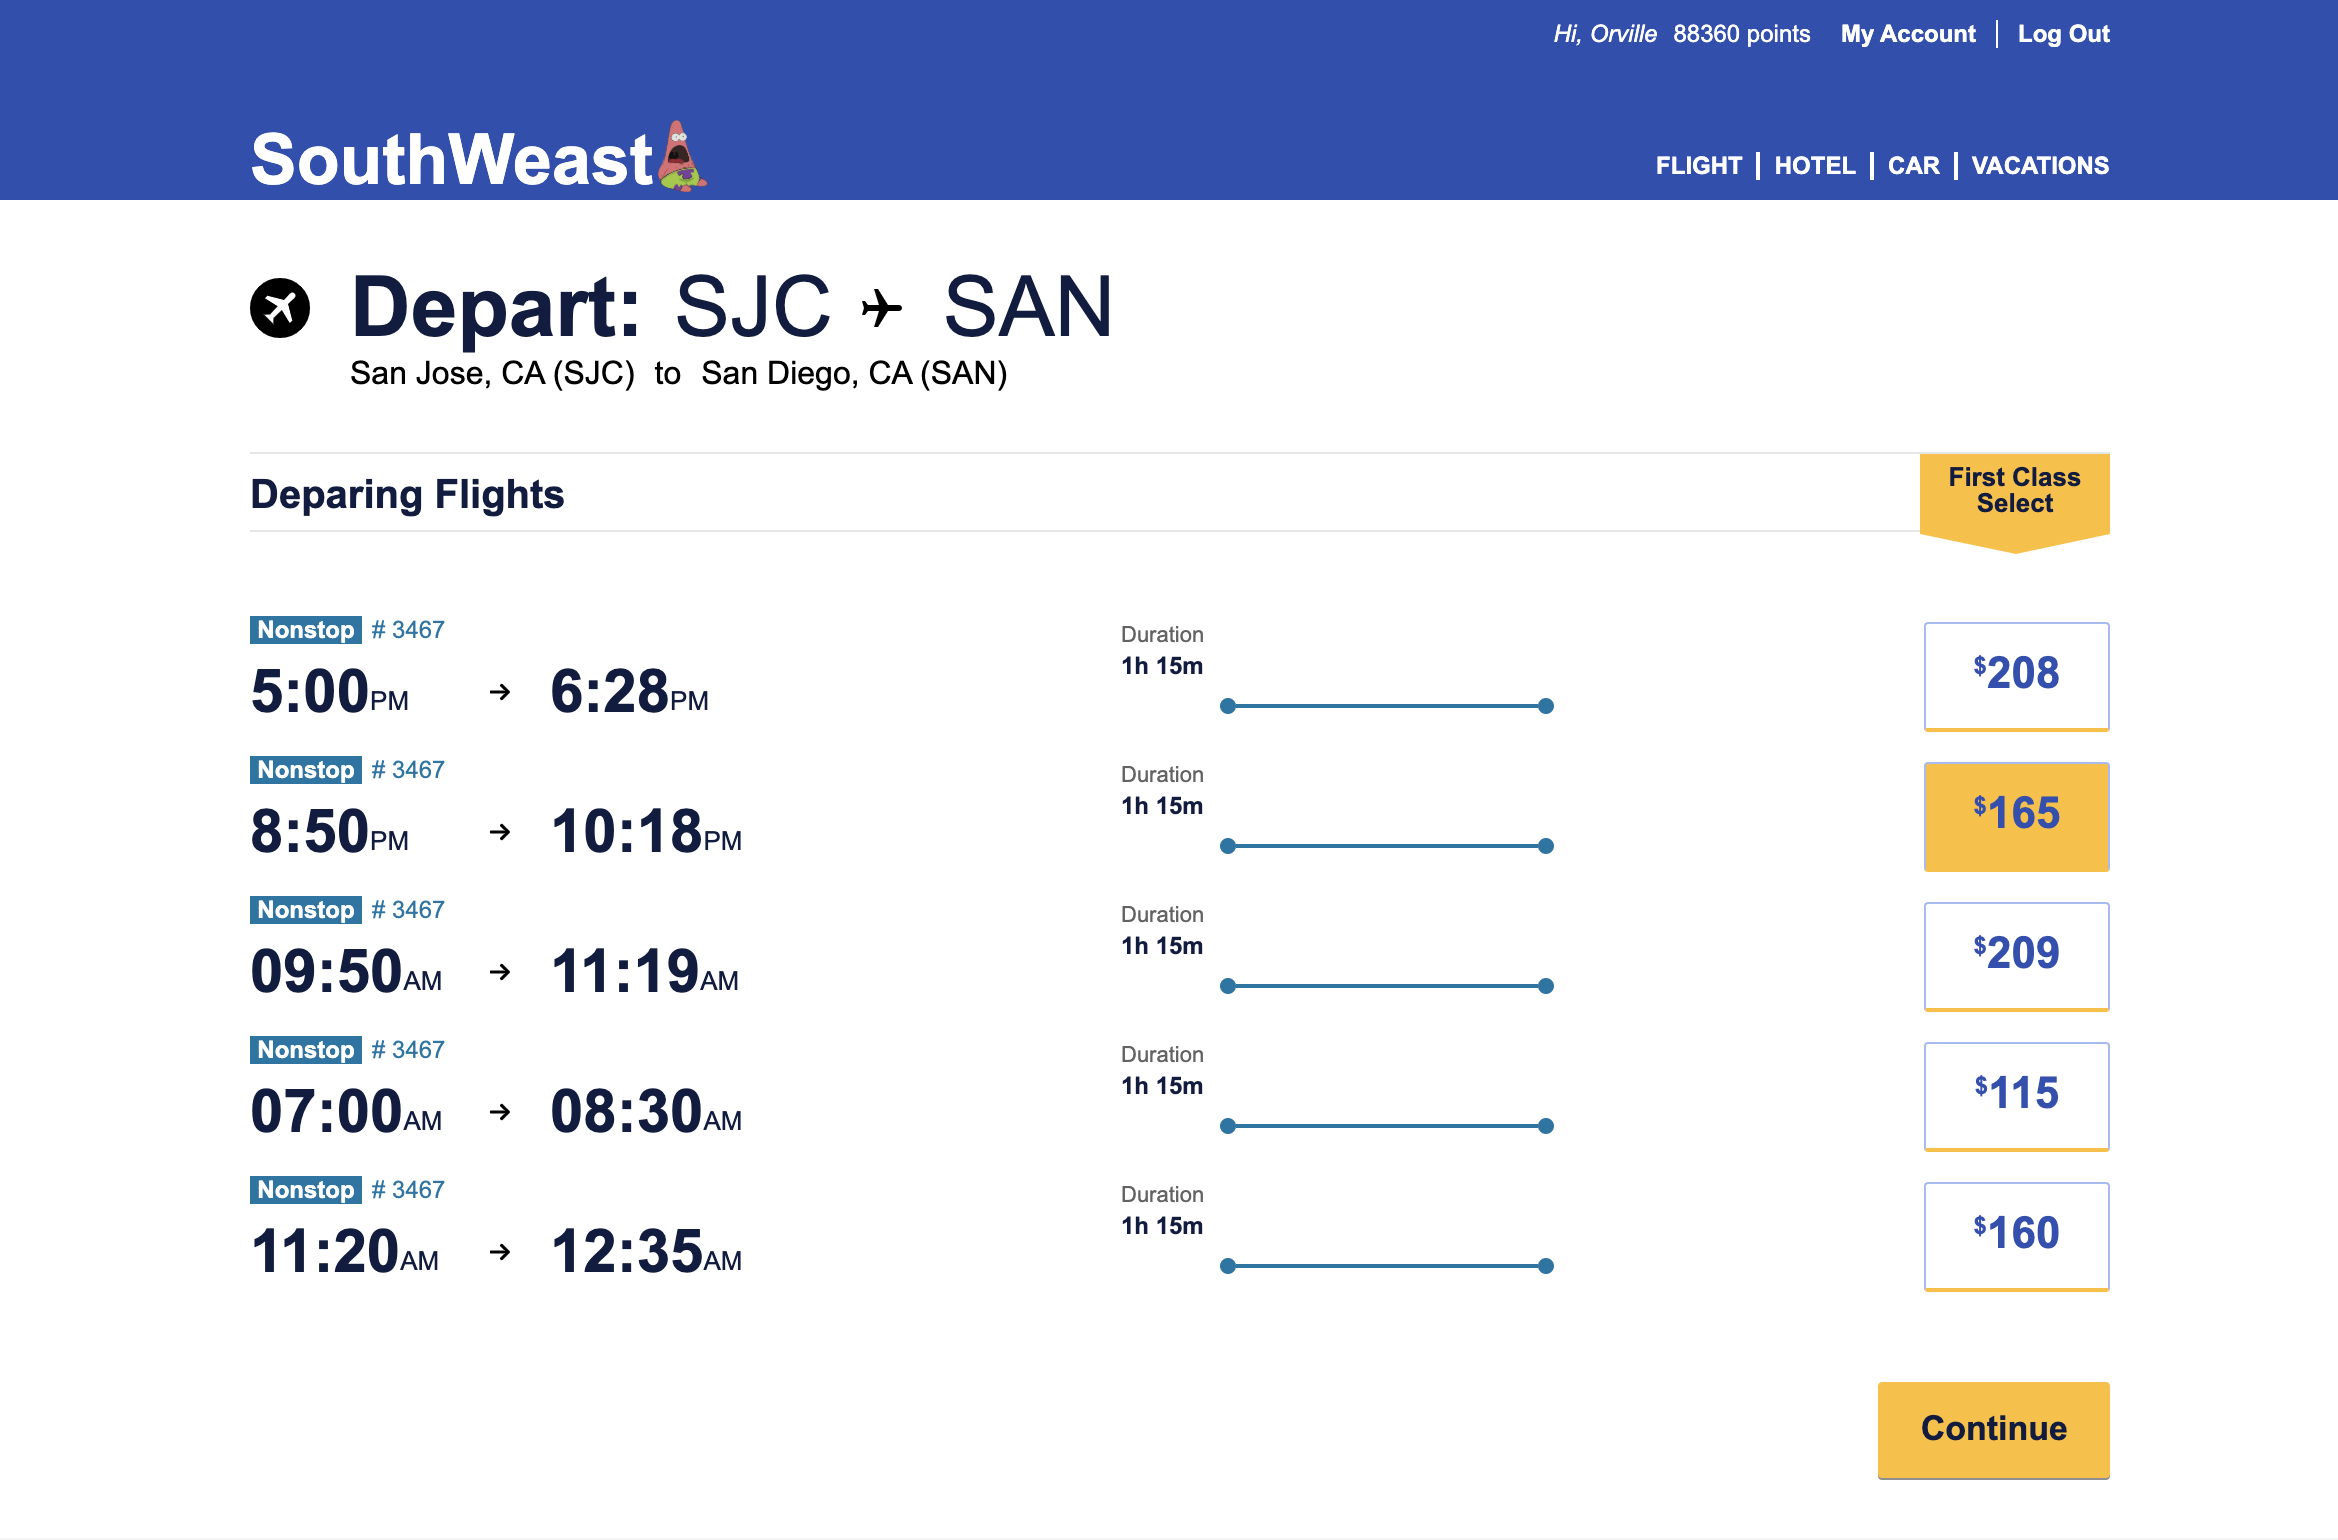
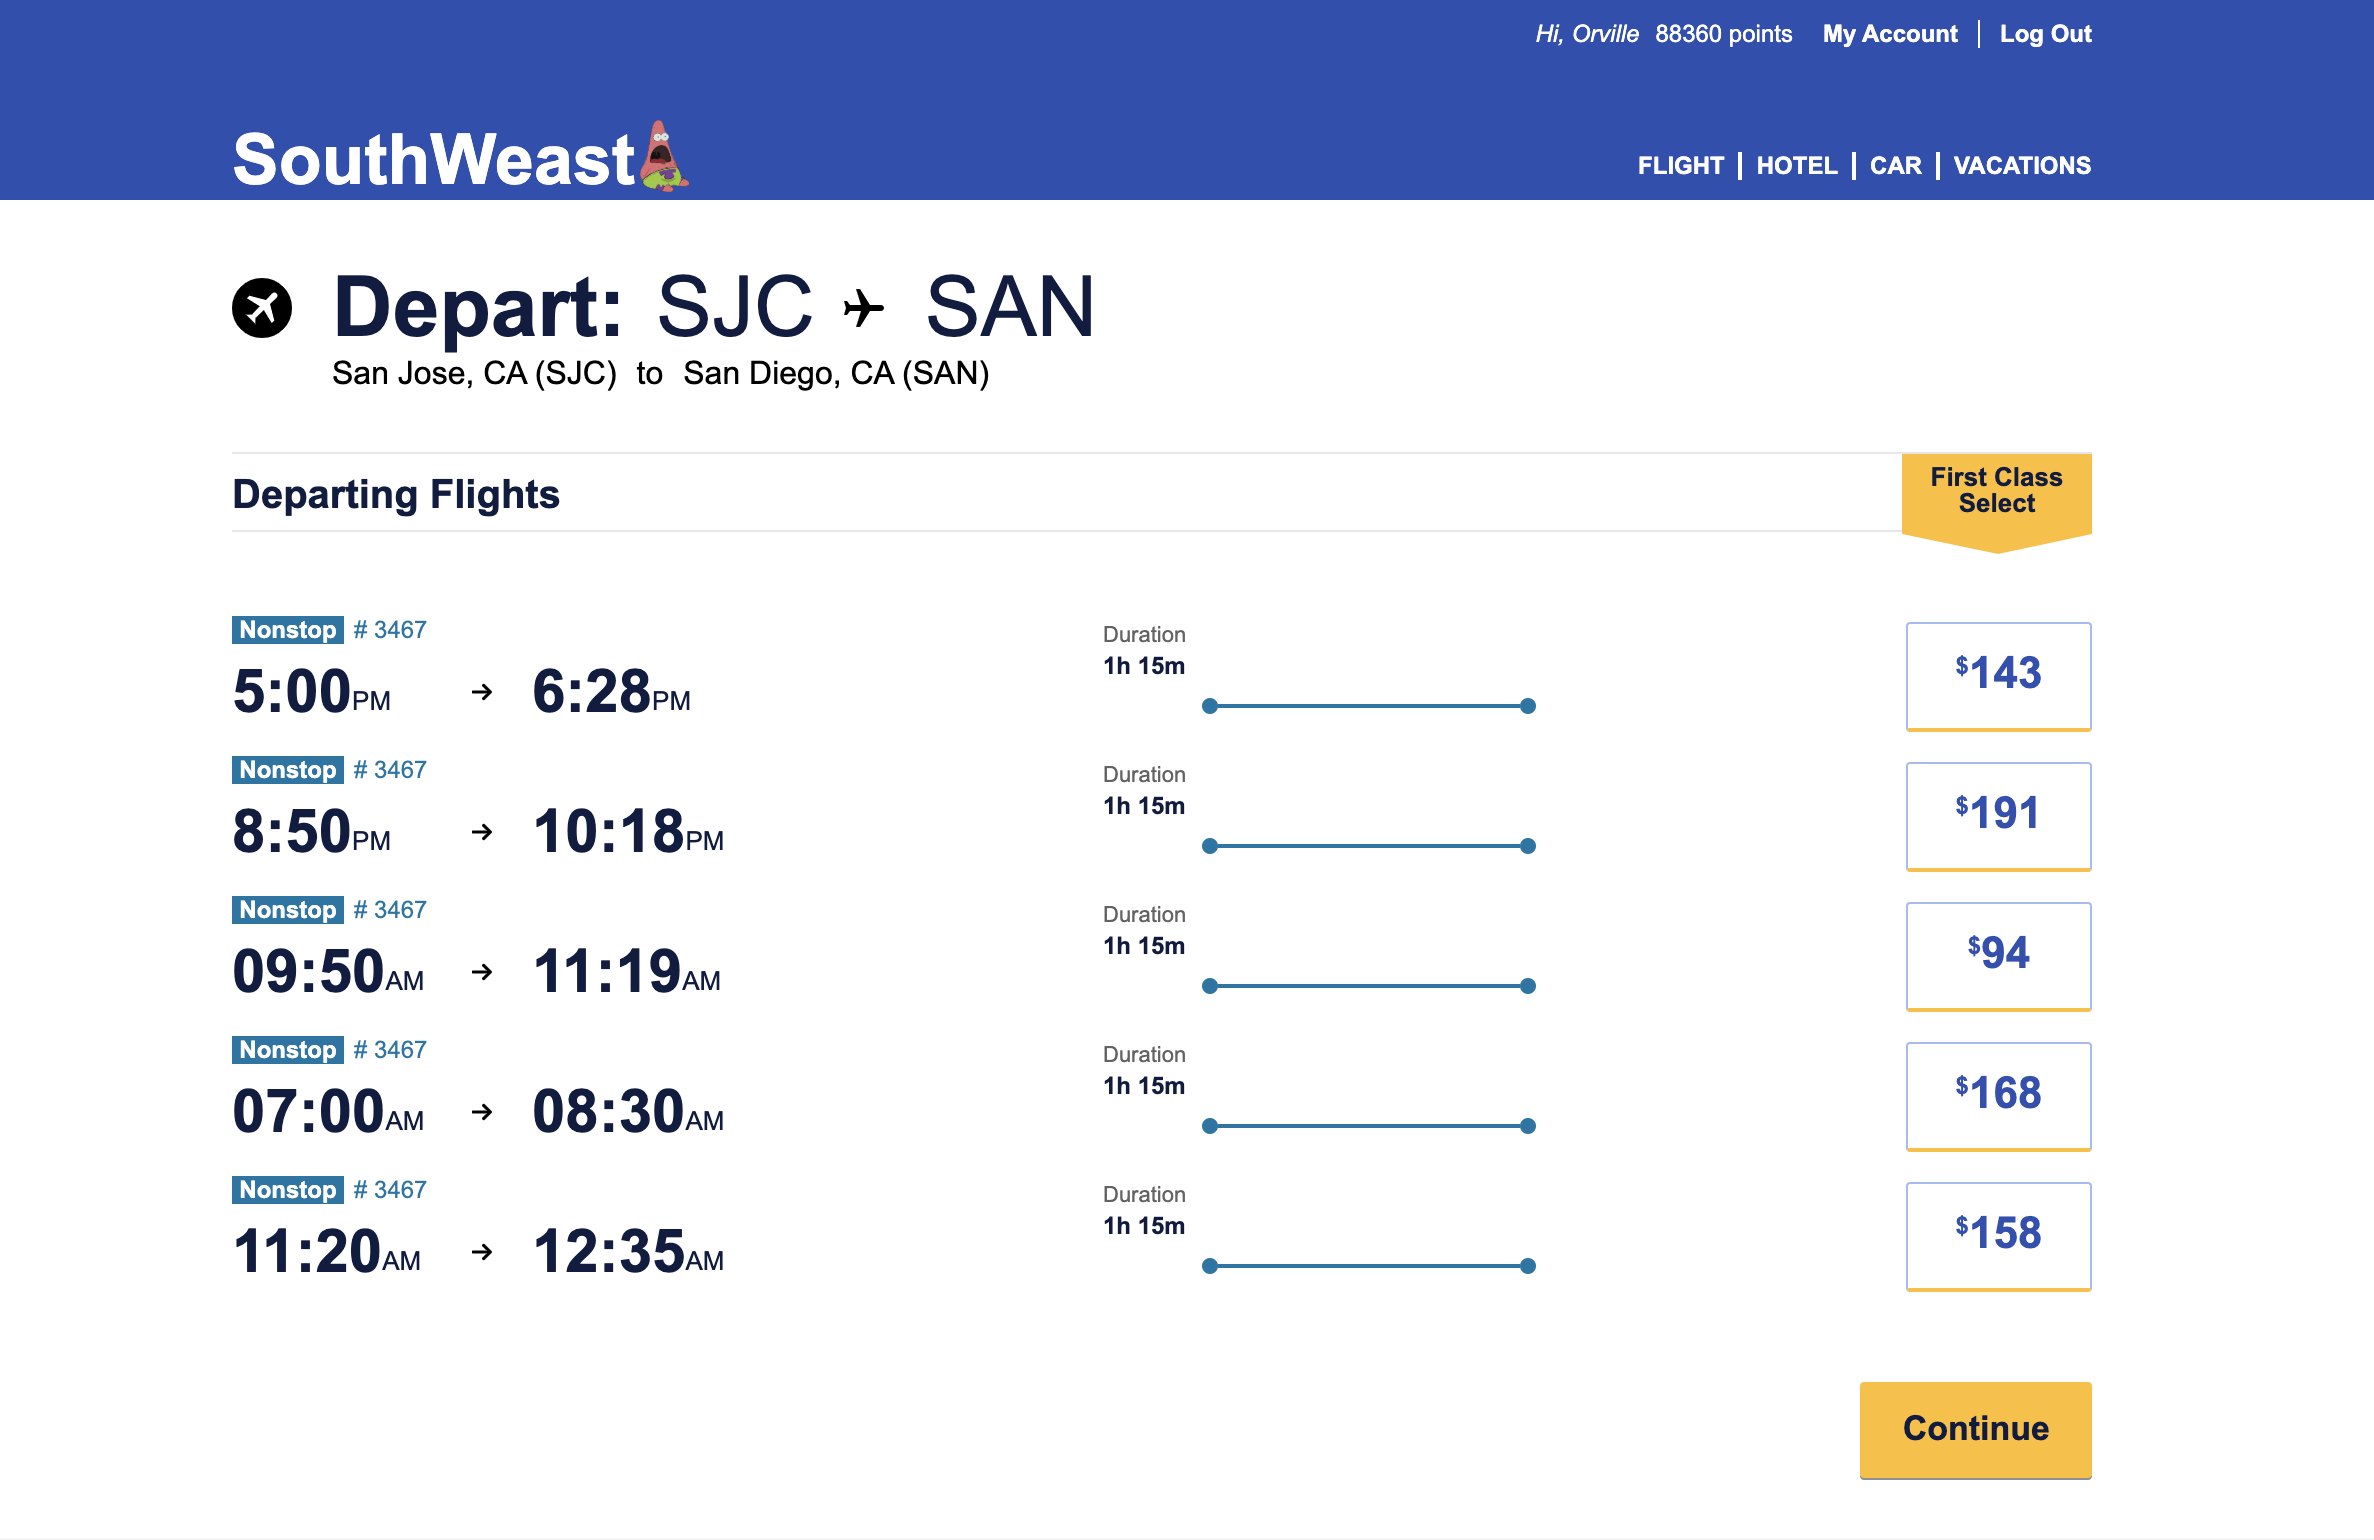
Replace flight search photo

diff --git a/frontend/components/flights/flights_search_index.jsx b/frontend/components/flights/flights_search_index.jsx
@@ -172,7 +172,7 @@ class FlightsSearchIndex extends React.Component {
                 </div>
                 <div className="flights-search-break-info">
                     <div className="flights-search-break-header">
-                        <h3>Deparing Flights</h3>
+                        <h3>Departing Flights</h3>
                     </div>
                     <div className="flight-search-break-banner">
                         <h3>First Class Select</h3>
